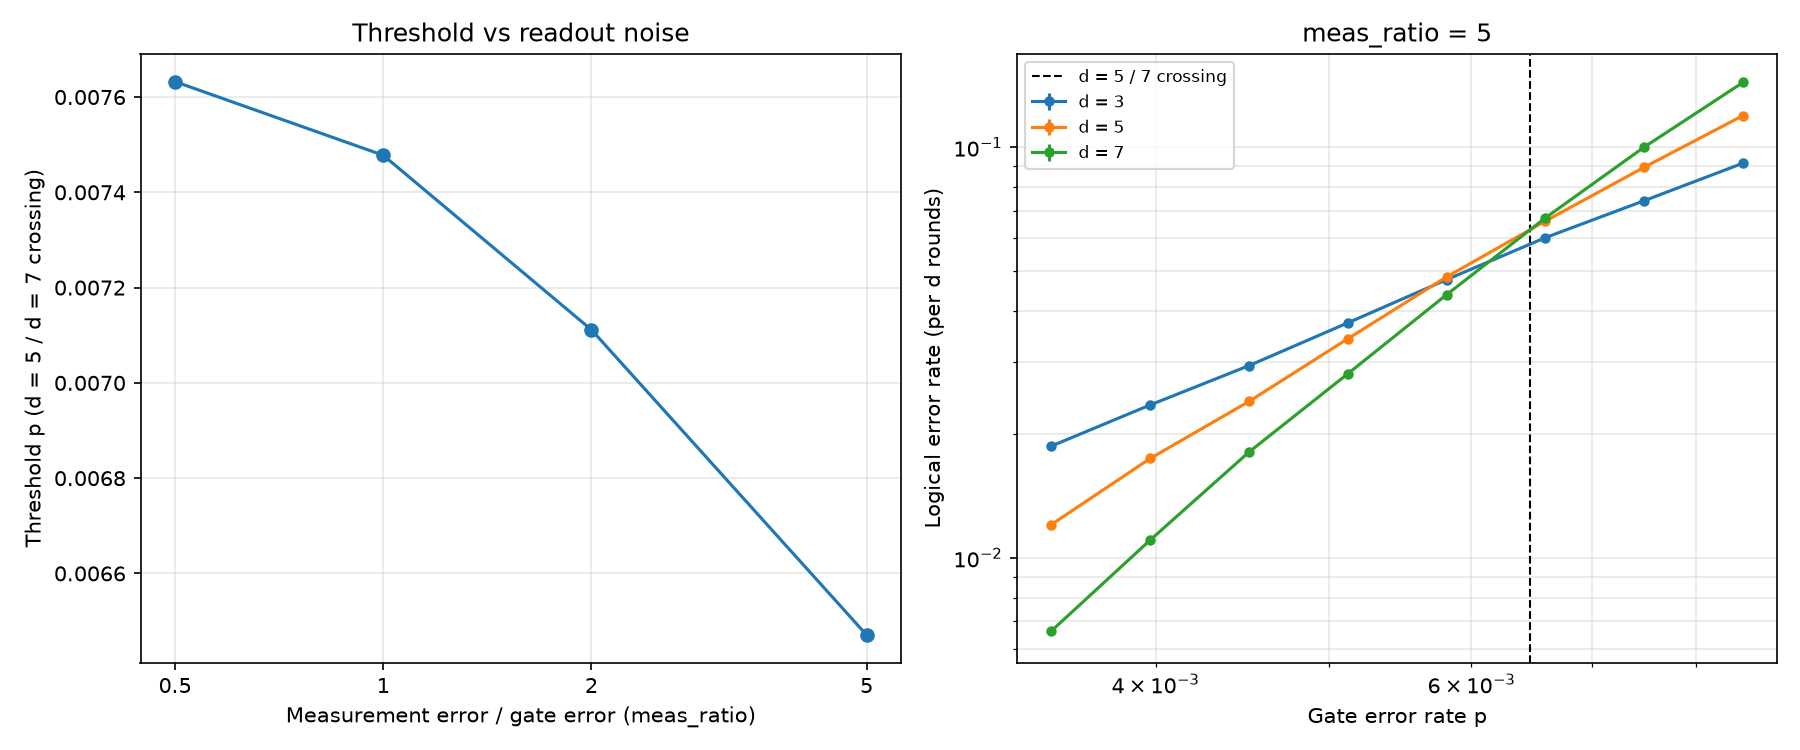
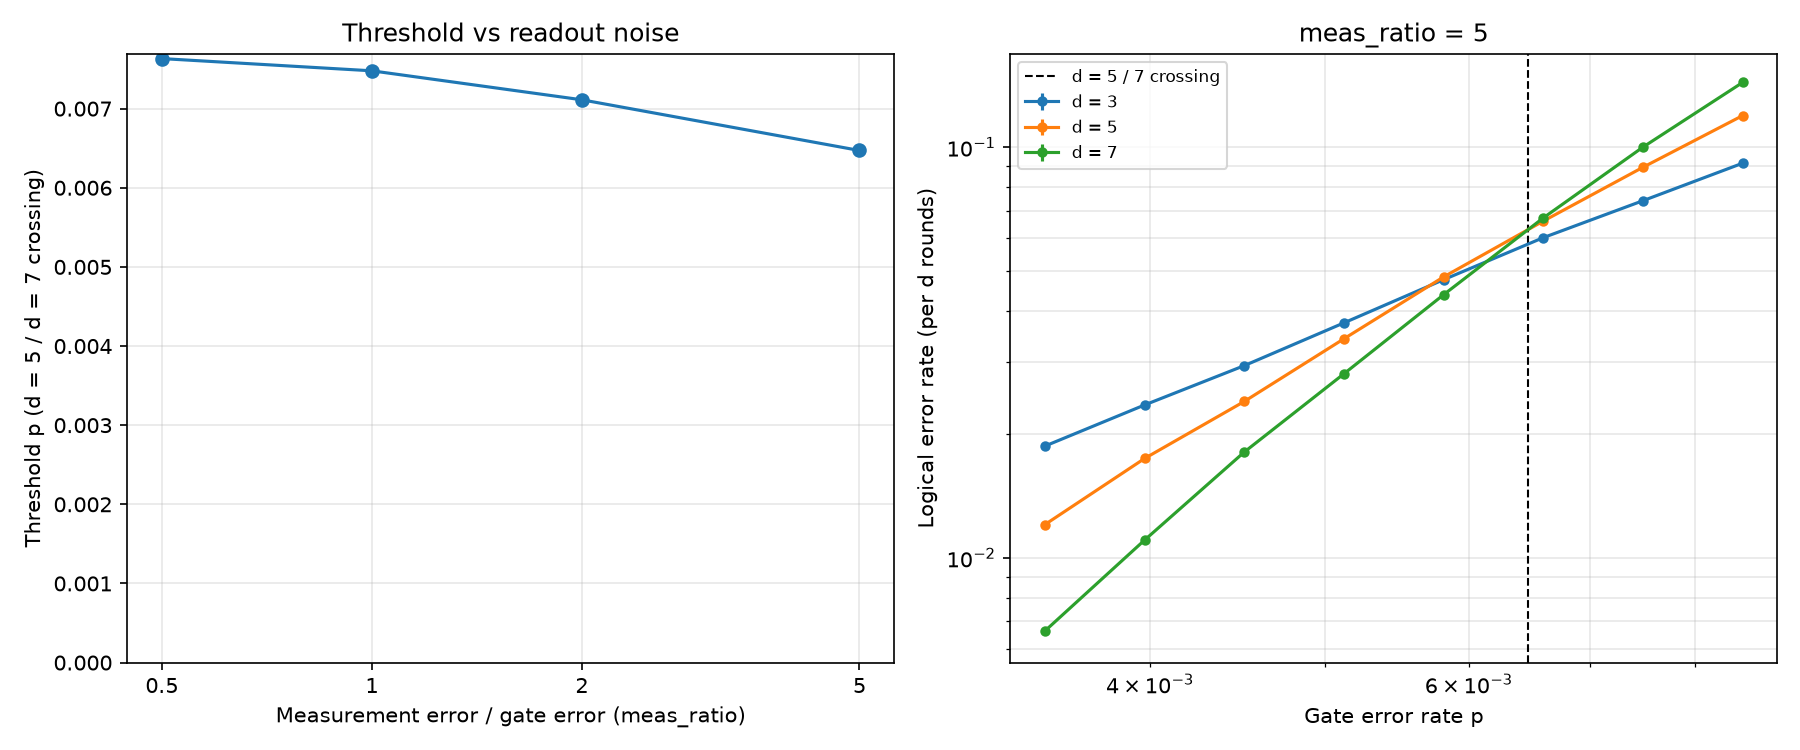
Add README, pin requirements, move numbers script

diff --git a/scripts/readme_numbers.py b/scripts/readme_numbers.py
@@ -1,0 +1,60 @@
+import csv
+import sys
+from pathlib import Path
+
+import numpy as np
+
+ROOT = Path(__file__).resolve().parent.parent
+sys.path.insert(0, str(ROOT / "src"))
+from surface import crossing
+
+rng = np.random.default_rng(0)
+
+
+def load(name):
+    with open(ROOT / "results" / name) as f:
+        return list(csv.DictReader(f))
+
+
+def curves(rows, key=None):
+    out = {}
+    for r in rows:
+        k = (r.get(key), int(r["d"])) if key else int(r["d"])
+        out.setdefault(k, []).append((float(r["p"]), float(r["logical_error_rate"]), int(r["shots"])))
+    return {k: np.array(sorted(v)) for k, v in out.items()}
+
+
+def boot(p, a, b, shots, n=2000):
+    # resample each point binomially and redo the crossing
+    xs = []
+    for _ in range(n):
+        ra = rng.binomial(shots, a) / shots
+        rb = rng.binomial(shots, b) / shots
+        xs.append(crossing(p, ra, rb))
+    xs = np.array(xs)
+    return np.nanstd(xs), np.isnan(xs).mean(), xs
+
+
+print("first sweep")
+c = curves(load("surface_threshold.csv"))
+p = c[3][:, 0]
+shots = int(c[3][0, 2])
+for d in (3, 5, 7):
+    print(d, [f"{x:.5f}" for x in c[d][:, 1]])
+for a, b in ((3, 5), (3, 7), (5, 7)):
+    x = crossing(p, c[a][:, 1], c[b][:, 1])
+    sd, nanf, _ = boot(p, c[a][:, 1], c[b][:, 1], shots)
+    print(f"cross {a}/{b}: {x:.5f} +- {sd:.5f}")
+
+print("measurement study")
+c = curves(load("measurement_study.csv"), "meas_ratio")
+samples = {}
+for ratio in ("0.5", "1", "2", "5"):
+    p = c[ratio, 5][:, 0]
+    shots = int(c[ratio, 5][0, 2])
+    x = crossing(p, c[ratio, 5][:, 1], c[ratio, 7][:, 1])
+    sd, nanf, xs = boot(p, c[ratio, 5][:, 1], c[ratio, 7][:, 1], shots)
+    samples[ratio] = xs
+    print(f"ratio {ratio}: {x:.5f} +- {sd:.5f} (nan frac {nanf}) p range {p[0]:.4f}-{p[-1]:.4f} shots {shots}")
+diff = samples["1"] - samples["0.5"]
+print("1 minus 0.5:", np.nanmean(diff), np.nanstd(diff))

diff --git a/scripts/measurement_study.py b/scripts/measurement_study.py
@@ -59,6 +59,8 @@ ax_th.minorticks_off()
 ax_th.set_xticks(ratios, [str(r) for r in ratios])
 ax_th.set_xlabel("Measurement error / gate error (meas_ratio)")
 ax_th.set_ylabel("Threshold p (d = 5 / d = 7 crossing)")
+# start at zero so the size of the drop isn't exaggerated
+ax_th.set_ylim(bottom=0)
 ax_th.set_title("Threshold vs readout noise")
 ax_th.grid(True, which="both", alpha=0.3)
 

diff --git a/README.md b/README.md
@@ -1,0 +1,147 @@
+# qec-decoding
+
+Simulations of the repetition code and the rotated surface code, with threshold
+estimates from Monte Carlo sampling. The surface code study uses Stim and
+PyMatching, and also measures how the threshold changes when measurement error
+is larger than gate error.
+
+## Motivation
+
+> **TODO:** to be written.
+
+## What's here
+
+- `src/`: the repetition code with its syndrome decoder and exact formula (`repetition.py`), and surface code circuit construction, sampling and threshold estimation (`surface.py`).
+- `scripts/`: one script per study, each writing a figure to `figures/` and, for the surface code, a CSV to `results/`.
+- `tests/`: pytest checks for both codes, including zero logical errors at p = 0 and a smaller logical error rate at larger distance below threshold.
+
+## Results
+
+### (a) Repetition code
+
+One logical bit is stored in d physical bits, each flipping independently with
+probability p. The decoder sees only the syndrome (the parities of neighbouring
+bits), not the bits themselves. The syndrome determines the error up to a
+global flip, so there are two candidate errors, and the decoder picks the one
+with fewer flips. Decoding fails exactly when more than half the bits flip, so
+the logical error rate is
+
+P_L = Σ_{k > d/2} C(d, k) p^k (1 − p)^(d − k).
+
+The simulation used d = 3, 5, 7 and 12 values of p from 0.05 to 0.5, with
+1,000,000 shots per point. It matches this formula within shot noise. All 36
+points lie within 2.5σ of the exact value, and χ² = 40.4 over 36 points.
+
+![Repetition code: logical against physical error rate, simulation and exact formula](figures/repetition_threshold.png)
+
+### (b) Surface code threshold
+
+Setup:
+
+- Stim's `surface_code:rotated_memory_z` experiment with rounds = d, for d = 3, 5, 7.
+- Uniform circuit level noise at p:
+  - depolarising noise after every Clifford gate and on every data qubit at the start of each round
+  - bit flips after reset and before measurement
+- A minimum weight perfect matching decoder from PyMatching, built from the detector error model that Stim derives from the circuit.
+
+Logical error rates are per d rounds. Each is the probability that the whole
+d round memory experiment ends with the wrong logical outcome.
+
+**Threshold estimate: about 0.75%.** This is the d = 5 / d = 7 crossing at
+meas_ratio = 1 from the measurement study in (c), which samples p more finely
+near the crossing.
+
+Shot noise on this estimate is about 0.01 percentage points. That figure comes
+from a parametric bootstrap that resamples each point binomially and repeats
+the interpolation. The choice of p grid matters more. The first sweep shown
+below used a coarser grid and gave about 0.7% (0.709% for the d = 5 / d = 7
+crossing), about 0.04 percentage points lower. So only two significant figures
+are reliable. The crossings between other pairs in the first sweep were 0.641%
+(d = 3 / d = 5) and 0.669% (d = 3 / d = 7).
+
+Below threshold, larger distance helps. At p = 0.3%, the logical error rate is
+0.653% for d = 3, 0.335% for d = 5 and 0.152% for d = 7.
+
+![Surface code: logical against physical error rate for d = 3, 5, 7](figures/surface_threshold.png)
+
+The first sweep used 8 values of p from 0.003 to 0.015, with 500,000 shots per
+point. The 1σ binomial error bars are smaller than the markers.
+
+### (c) Measurement error study
+
+Readout is often noisier than gates on current superconducting devices. To
+model this, the measurement flip probability is set to meas_ratio × p, and all
+other noise stays at p. This applies to the check qubit measurement in every
+round and to the final data qubit readout.
+
+The threshold is taken as the point where the d = 5 and d = 7 curves cross.
+It is found by interpolating log(logical rate) against log(p) between the two
+sampled points either side of the crossing. Each ratio uses 8 values of p,
+chosen to bracket its crossing, with 300,000 shots per point.
+
+| meas_ratio | Threshold p | p range sampled |
+|---|---|---|
+| 0.5 | 0.76% | 0.50% to 1.10% |
+| 1 | 0.75% | 0.50% to 1.00% |
+| 2 | 0.71% | 0.45% to 0.90% |
+| 5 | 0.65% | 0.35% to 0.85% |
+
+![Left: threshold against meas_ratio. Right: logical error curves at meas_ratio = 5](figures/measurement_study.png)
+
+Raising meas_ratio from 1 to 5 lowers the threshold from 0.75% to 0.65%, a
+fall of about 13%. This fall is larger than both shot noise and the grid
+effect described in (b), but the steps between neighbouring ratios are less
+certain. The drop is small because measurement is only one of several noise
+locations in each round. A weight four check qubit undergoes four
+two qubit gates, each followed by two qubit depolarising noise at p, as well
+as a reset with its own flip. Every data qubit is also depolarised once per
+round. Measurement adds one flip per check qubit per round, so increasing it
+fivefold raises the total noise per round by much less than a fivefold
+increase in gate error would.
+
+The 0.5 and 1 results are within noise of each other: their difference is
+0.017 ± 0.014 percentage points.
+
+## Running it
+
+Tested with Python 3.11.
+
+```sh
+python3 -m venv .venv
+source .venv/bin/activate
+pip install -r requirements.txt
+
+pytest
+
+python scripts/plot_repetition.py     # figures/repetition_threshold.png
+python scripts/surface_threshold.py   # results/surface_threshold.csv, figures/surface_threshold.png
+python scripts/measurement_study.py   # results/measurement_study.csv, figures/measurement_study.png
+python scripts/readme_numbers.py      # numbers quoted above, read from results/
+```
+
+`readme_numbers.py` reads the two CSVs, so run it after the surface code
+scripts. It prints:
+
+- the first sweep's logical error rates
+- the crossing for each pair of distances, with its bootstrap shot noise
+- the d = 5 / d = 7 crossing and its shot noise for each meas_ratio
+- the difference between the meas_ratio = 1 and 0.5 thresholds
+
+On a MacBook, the surface threshold script takes about 1.5 minutes and the
+measurement study about 3.5 minutes. Fixed seeds reproduce the numbers above
+exactly with the pinned versions in `requirements.txt` on the same machine.
+Elsewhere, results should agree within shot noise.
+
+## Limitations
+
+- Simulation only. Nothing here has been run on hardware.
+- The noise model is uniform: a single p for all gates, resets and idling. The only variation is the readout ratio in (c).
+- The surface code decoder is PyMatching, a library decoder, not one written for this project.
+- The distances are small (d ≤ 7), and crossings between small codes move with distance, so the thresholds are finite size estimates.
+- Logical error rates are per d rounds, not per round, so they are not directly comparable with per round figures.
+
+## Next steps
+
+Planned: a union find decoder written for this project, benchmarked against
+PyMatching on the same circuits for accuracy (logical error rates and
+threshold) and speed (decoding time per shot).
